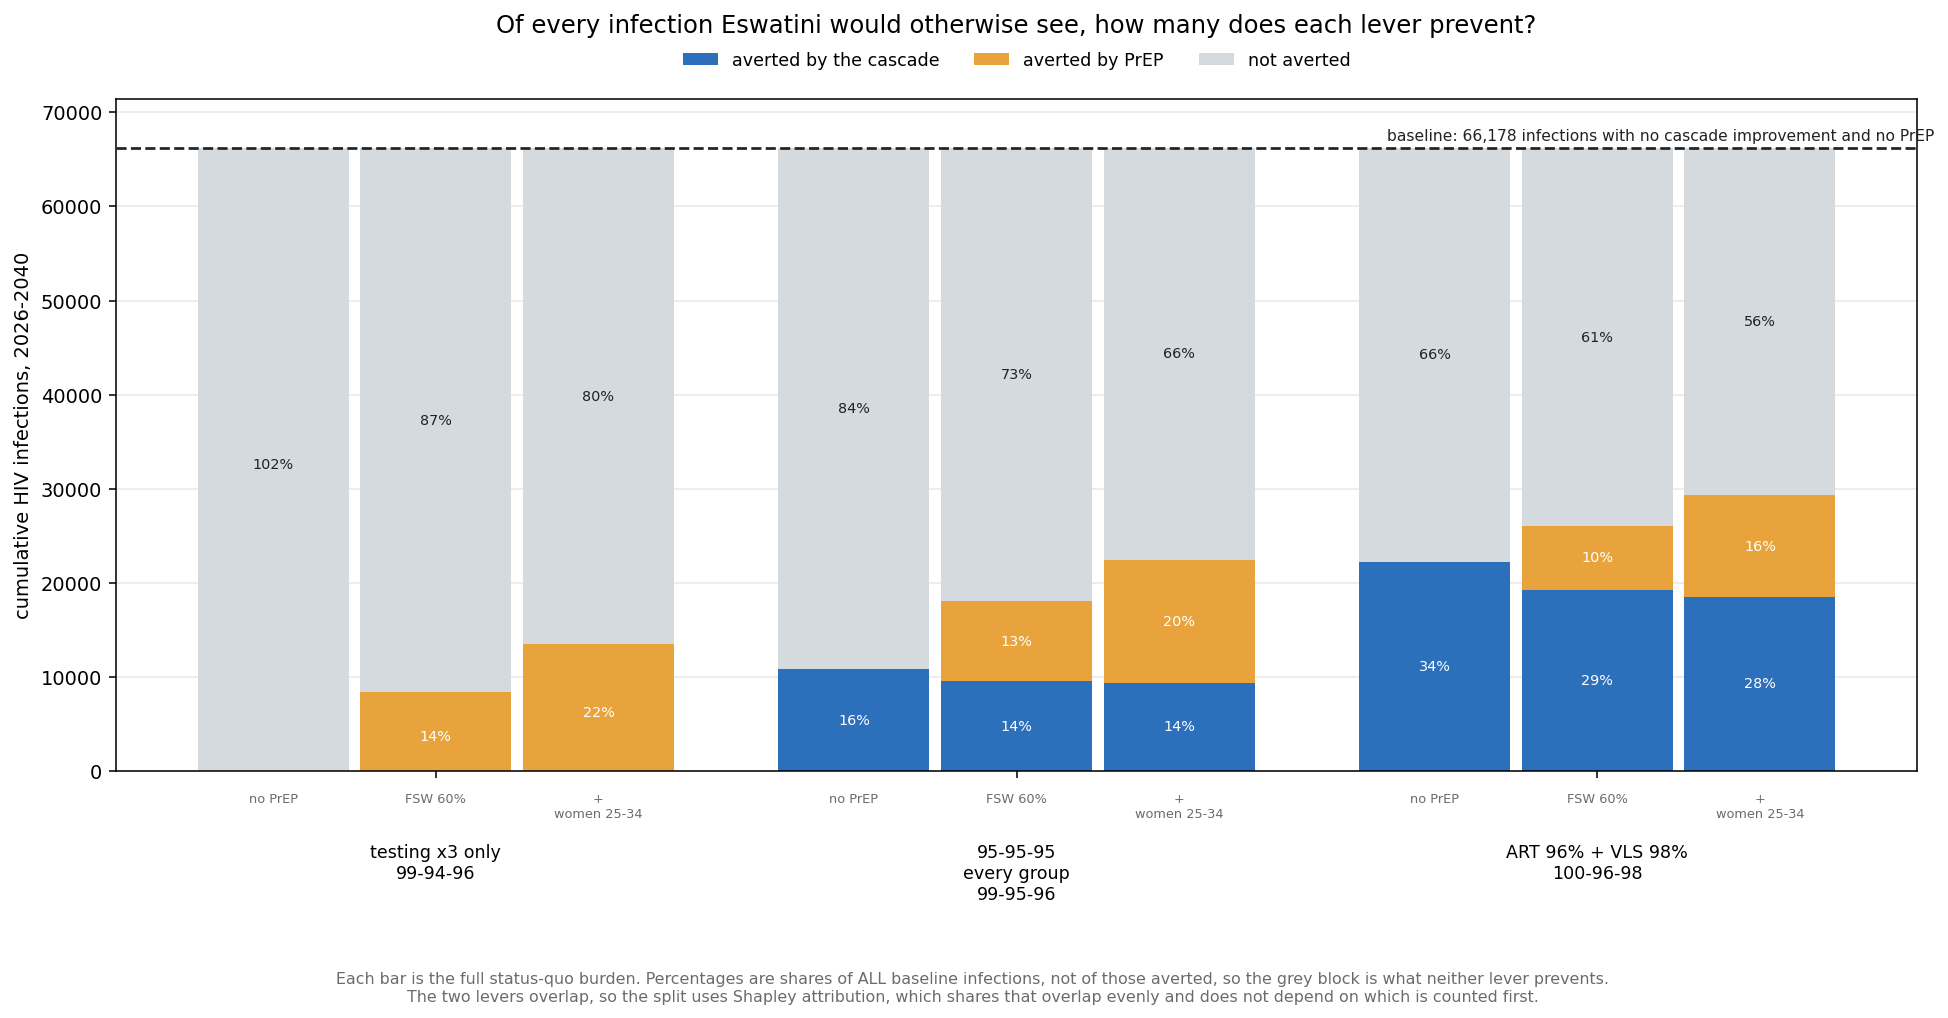
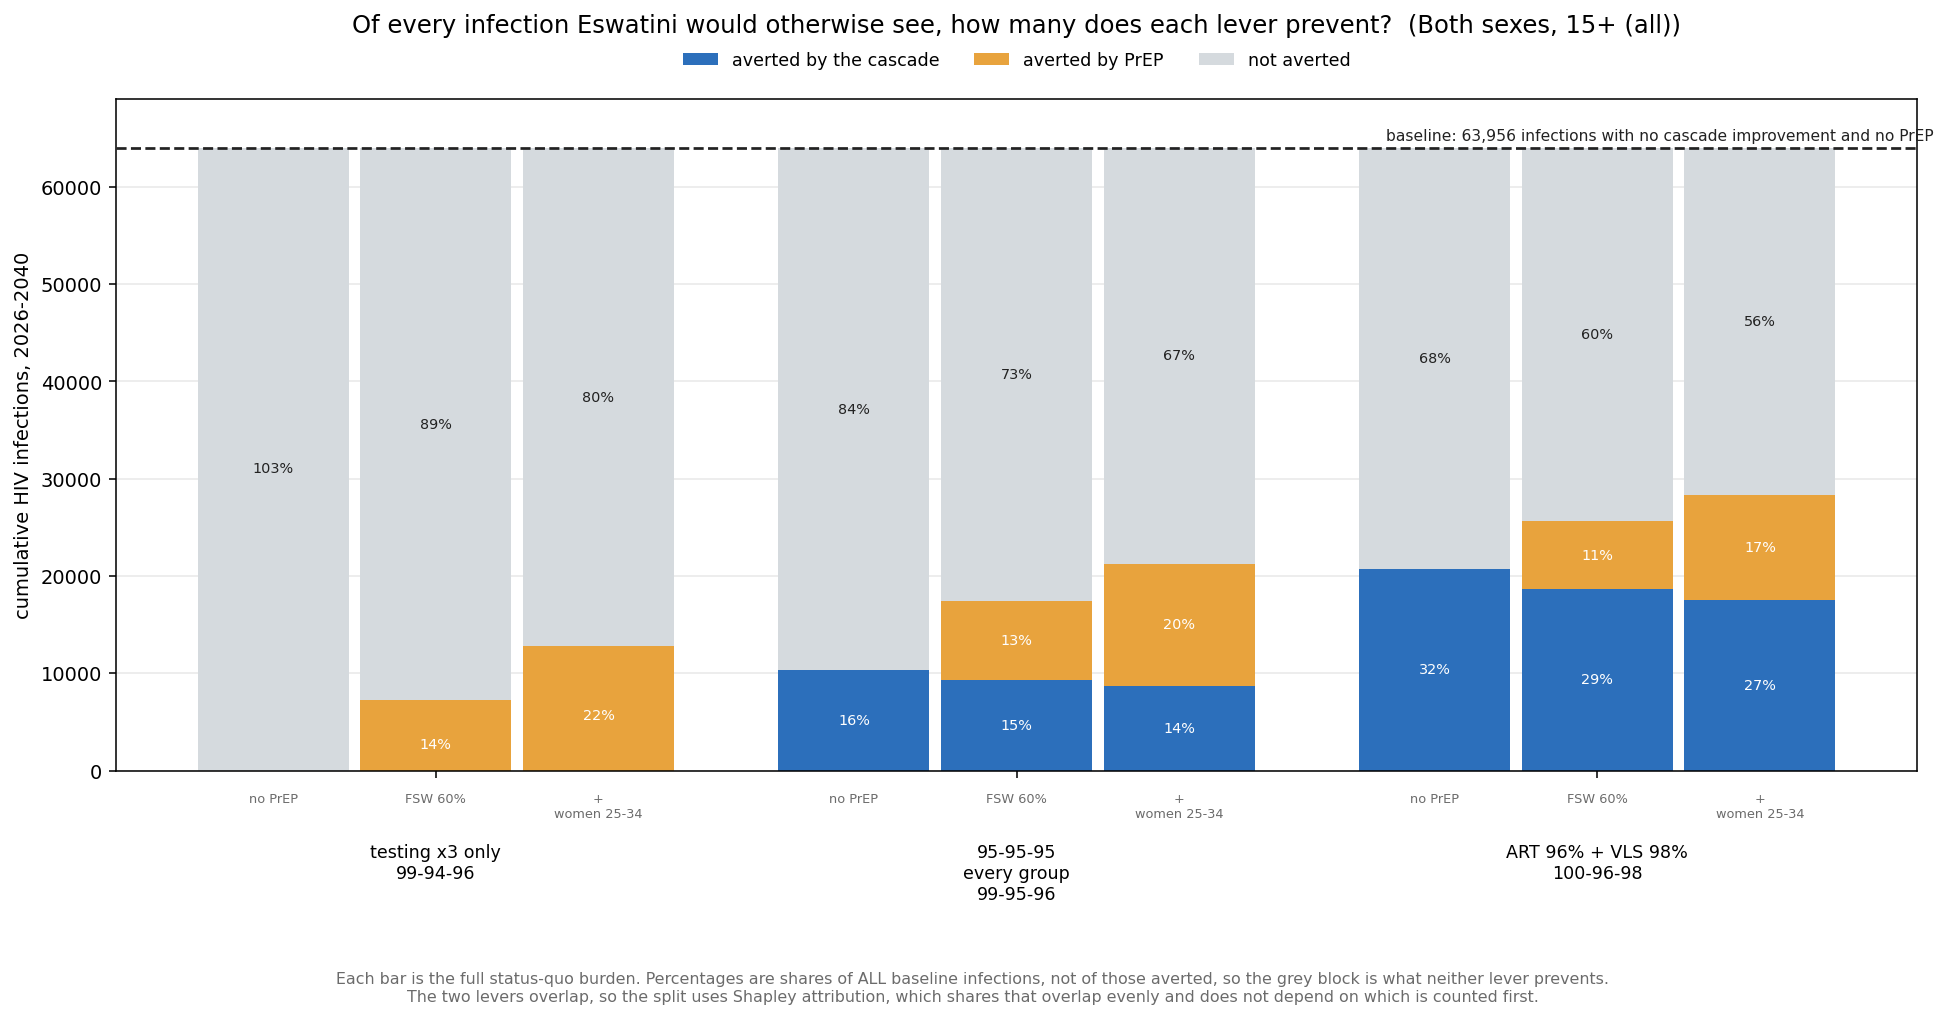
Rebuild the attribution figure from the summary table, not the raw runs
Reads scenario_table.csv or the workbook, so it works without the VM.
Validates that the table actually contains the requested stratum rather
than trusting its column names -- an older table has age_group and
prep_name but no both-sexes rows, and silently returned nothing.

diff --git a/experiments/034_plausible_scenarios/attribution_figure.py b/experiments/034_plausible_scenarios/attribution_figure.py
@@ -1,0 +1,182 @@
+"""Rebuild the cascade/PrEP attribution figure from the summary table.
+
+Reads the scenario table rather than the raw per-run parquet, so it works
+without the VM. Everything the Shapley split needs is already in there:
+
+    A = cascade alone   (that cascade, no PrEP,  vs status quo)
+    B = PrEP alone      (status quo, that PrEP,  vs status quo)
+    J = both together   (that cascade + PrEP,    vs status quo)
+
+The levers overlap, so J < A + B. The overlap I = J - A - B is shared evenly:
+cascade gets A + I/2, PrEP gets B + I/2, and the two sum exactly to J. Giving
+the whole overlap to whichever lever is named first would shift the split by
+more than ten percentage points, which is why it is not done that way.
+
+Bars run the full status-quo burden, so the grey block is the share neither
+lever prevents -- the quantity the analysis is actually about. Percentages are
+of ALL baseline infections, not of those averted.
+
+Usage (repo root):
+  python experiments/034_plausible_scenarios/attribution_figure.py
+  python experiments/034_plausible_scenarios/attribution_figure.py --age "15-49"
+"""
+
+import argparse
+import sys
+from pathlib import Path
+
+import numpy as np
+import pandas as pd
+import matplotlib
+matplotlib.use("Agg")
+import matplotlib.pyplot as plt
+
+HERE = Path(__file__).resolve().parent
+OUT, FIG = HERE / "outputs", HERE / "figures"
+FIG.mkdir(parents=True, exist_ok=True)
+
+INK, MUTED = "#222222", "#6b6b6b"
+CASC_ORDER = ["testing_only", "unaids_95", "99_96_98"]
+CASC_LAB = {"testing_only": "testing x3 only",
+            "unaids_95": "95-95-95\nevery group",
+            "99_96_98": "ART 96% + VLS 98%"}
+SHOW_PREP = ["none", "fsw", "women_25_34"]
+PREP_LAB = {"none": "no PrEP", "fsw": "FSW 60%",
+            "women_25_34": "+\nwomen 25-34"}
+
+
+def load(age, sex):
+    """Prefer the CSV; fall back to the workbook if it is locked or stale."""
+    # Check the CSV actually CONTAINS the requested stratum, not merely that
+    # it has the right column names -- an older table has prep_name and
+    # age_group but no both-sexes or 15-49 rows, and would silently return
+    # nothing.
+    csv = OUT / "scenario_table.csv"
+    if csv.exists():
+        try:
+            t = pd.read_csv(csv)
+            if "prep_name" in t.columns:
+                sub = t[(t.age_group == age) & (t.sex == sex)]
+                if len(sub):
+                    return sub
+                print(f"  ! {csv.name} has no {sex} / {age} rows "
+                      f"(stale) -- falling back to the workbook")
+        except (PermissionError, OSError):
+            print(f"  ! {csv.name} is locked -- falling back to the workbook")
+    xl = next((p for p in (OUT / "eswatini_scenario_table_v2.xlsx",
+                           OUT / "eswatini_scenario_table.xlsx")
+               if p.exists()), None)
+    if xl is None:
+        sys.exit("no scenario_table.csv and no workbook in outputs/")
+    d = pd.read_excel(xl, sheet_name="Data")
+    ren = {"ART cascade scenario": "cascade_pretty",
+           "LA-PrEP scenario": "prep_pretty", "Sex": "sex",
+           "Age group": "age_group", "Infections, status quo":
+           "baseline_infections", "Infections, scenario": "cum_infections"}
+    d = d.rename(columns=ren)
+    cmap = {"1. Status quo": "status_quo", "2. Testing x3 only": "testing_only",
+            "3. 95-95-95 every group": "unaids_95",
+            "4. ART 96% + VLS 98%": "99_96_98"}
+    pmap = {"No PrEP": "none", "FSW 60%": "fsw",
+            "+ higher-risk AGYW": "agyw_risk", "+ all AGYW": "agyw_all",
+            "+ women 25-34 (broad)": "women_25_34"}
+    d["cascade_name"] = d.cascade_pretty.map(cmap)
+    d["prep_name"] = d.prep_pretty.map(pmap)
+    d["aware"] = d["Aware of status"]
+    d["art_given_aware"] = d["On ART | aware"]
+    d["vls_given_art"] = d["Suppressed | on ART"]
+    return d[(d.age_group == age) & (d.sex == sex)]
+
+
+def main():
+    ap = argparse.ArgumentParser()
+    ap.add_argument("--age", default="15+ (all)")
+    ap.add_argument("--sex", default="Both sexes")
+    a = ap.parse_args()
+    t = load(a.age, a.sex)
+    if t.empty:
+        sys.exit(f"no rows for age={a.age!r} sex={a.sex!r}")
+
+    def cum(c, p):
+        r = t[(t.cascade_name == c) & (t.prep_name == p)]
+        return float(r.cum_infections.iloc[0]) if len(r) else np.nan
+
+    base = cum("status_quo", "none")
+
+    def triplet(c):
+        r = t[(t.cascade_name == c) & (t.prep_name == "none")]
+        if not len(r):
+            return ""
+        r = r.iloc[0]
+        return (f"{100*r.aware:.0f}-{100*r.art_given_aware:.0f}"
+                f"-{100*r.vls_given_art:.0f}")
+
+    cascs = [c for c in CASC_ORDER if not np.isnan(cum(c, "none"))]
+    width, gap = 0.26, 0.02
+    fig, ax = plt.subplots(figsize=(14, 6.8))
+    for j, p in enumerate(SHOW_PREP):
+        xs = [i + (j - 1) * (width + gap) for i in range(len(cascs))]
+        for x, c in zip(xs, cascs):
+            A = base - cum(c, "none")               # cascade alone
+            B = base - cum("status_quo", p)         # PrEP alone
+            J = base - cum(c, p)                    # both
+            I = J - A - B
+            cv, pv = A + I / 2, B + I / 2
+            rem = base - cv - pv
+            first = (j == 0 and x == xs[0])
+            ax.bar(x, cv, width, color="#2c6fbb", zorder=2,
+                   label="averted by the cascade" if first else None)
+            ax.bar(x, pv, width, bottom=cv, color="#e8a33d", zorder=2,
+                   label="averted by PrEP" if first else None)
+            ax.bar(x, rem, width, bottom=cv + pv, color="#d5dade", zorder=2,
+                   label="not averted" if first else None)
+            for val, bot, light in ((cv, 0, True), (pv, cv, True),
+                                    (rem, cv + pv, False)):
+                if val > base * 0.035:
+                    ax.text(x, bot + val / 2, f"{100*val/base:.0f}%",
+                            ha="center", va="center", fontsize=7.4, zorder=3,
+                            color="white" if light else INK)
+        for x in xs:
+            ax.text(x, -base * 0.035, PREP_LAB[p], ha="center", va="top",
+                    fontsize=6.6, color=MUTED)
+
+    ax.axhline(base, color=INK, lw=1.4, ls="--", zorder=4)
+    ax.text(len(cascs) - 0.42, base * 1.012,
+            f"baseline: {base:,.0f} infections with no cascade improvement "
+            f"and no PrEP", ha="right", fontsize=8, color=INK)
+    ax.set_xticks(range(len(cascs)))
+    ax.set_xticklabels([f"{CASC_LAB[c]}\n{triplet(c)}" for c in cascs],
+                       fontsize=9)
+    ax.tick_params(axis="x", pad=34)
+    ax.set_ylabel("cumulative HIV infections, 2026-2040")
+    ax.set_ylim(0, base * 1.08)
+    ax.grid(axis="y", alpha=0.28, zorder=0)
+    ax.legend(fontsize=9, frameon=False, ncol=3, loc="lower center",
+              bbox_to_anchor=(0.5, 1.02))
+    ax.set_title("Of every infection Eswatini would otherwise see, how many "
+                 f"does each lever prevent?  ({a.sex}, {a.age})",
+                 fontsize=12.5, pad=34)
+    fig.text(0.5, -0.06,
+             "Each bar is the full status-quo burden. Percentages are shares "
+             "of ALL baseline infections, not of those averted, so the grey "
+             "block is what neither lever prevents.\nThe two levers overlap, "
+             "so the split uses Shapley attribution, which shares that "
+             "overlap evenly and does not depend on which is counted first.",
+             ha="center", fontsize=8.2, color=MUTED)
+    fig.tight_layout(rect=[0, 0.02, 1, 1])
+    dest = FIG / "attribution.png"
+    fig.savefig(dest, dpi=140, bbox_inches="tight")
+    plt.close(fig)
+    print(f"wrote {dest}  (baseline {base:,.0f}, {a.sex}, {a.age})")
+    for c in cascs:
+        for p in SHOW_PREP[1:]:
+            A, B = base - cum(c, "none"), base - cum("status_quo", p)
+            J = base - cum(c, p)
+            I = J - A - B
+            print(f"  {c:14} +{p:12} cascade {100*(A+I/2)/base:4.1f}%  "
+                  f"PrEP {100*(B+I/2)/base:4.1f}%  "
+                  f"neither {100*(base-A-B-I)/base:4.1f}%")
+
+
+if __name__ == "__main__":
+    main()
